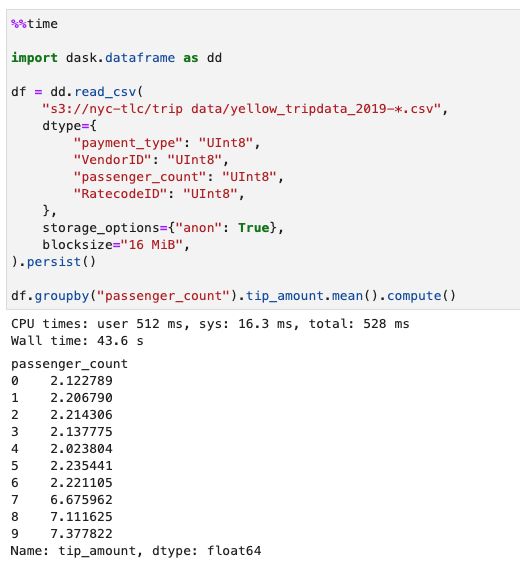
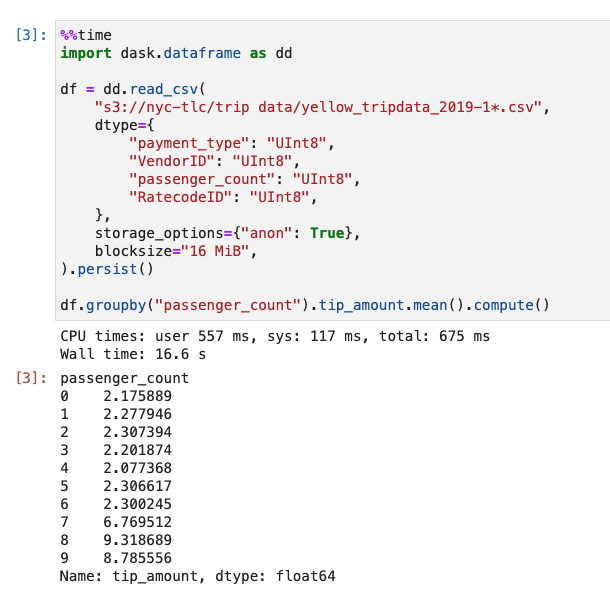
updated cloud perfromance

Changed region(s): [[0.0, 0.0296, 0.8923, 0.9774], [0.0615, 0.3554, 0.0923, 0.385], [0.0, 0.8293, 0.0308, 0.8589]]

diff --git a/_posts/2021-08-02-Dask.md b/_posts/2021-08-02-Dask.md
@@ -68,4 +68,4 @@ To take advantage of the free tier [Coiled](https://coiled.io/) cluster service 
     <img src="{{ '/assets/img/dask-cloud.png' | prepend: site.baseurl }}" alt="">
 </figure>
 
-Astoundingly it reduces to wall clock time from 4min 34s to merely 43.6s, just adding a few extra lines of code to your original Pandas codes. Of course this performance estimate is pretty *crude*. Actually there is tons of room to improve the raw Pandas way such as only reading the columns that you need.
+Astoundingly it reduces to wall clock time from 4min 34s to merely 16.6s, just adding a few extra lines of code to your original Pandas codes. Of course this performance estimate is pretty *crude*. Actually there is tons of room to improve the raw Pandas way such as only reading the columns that you need.
